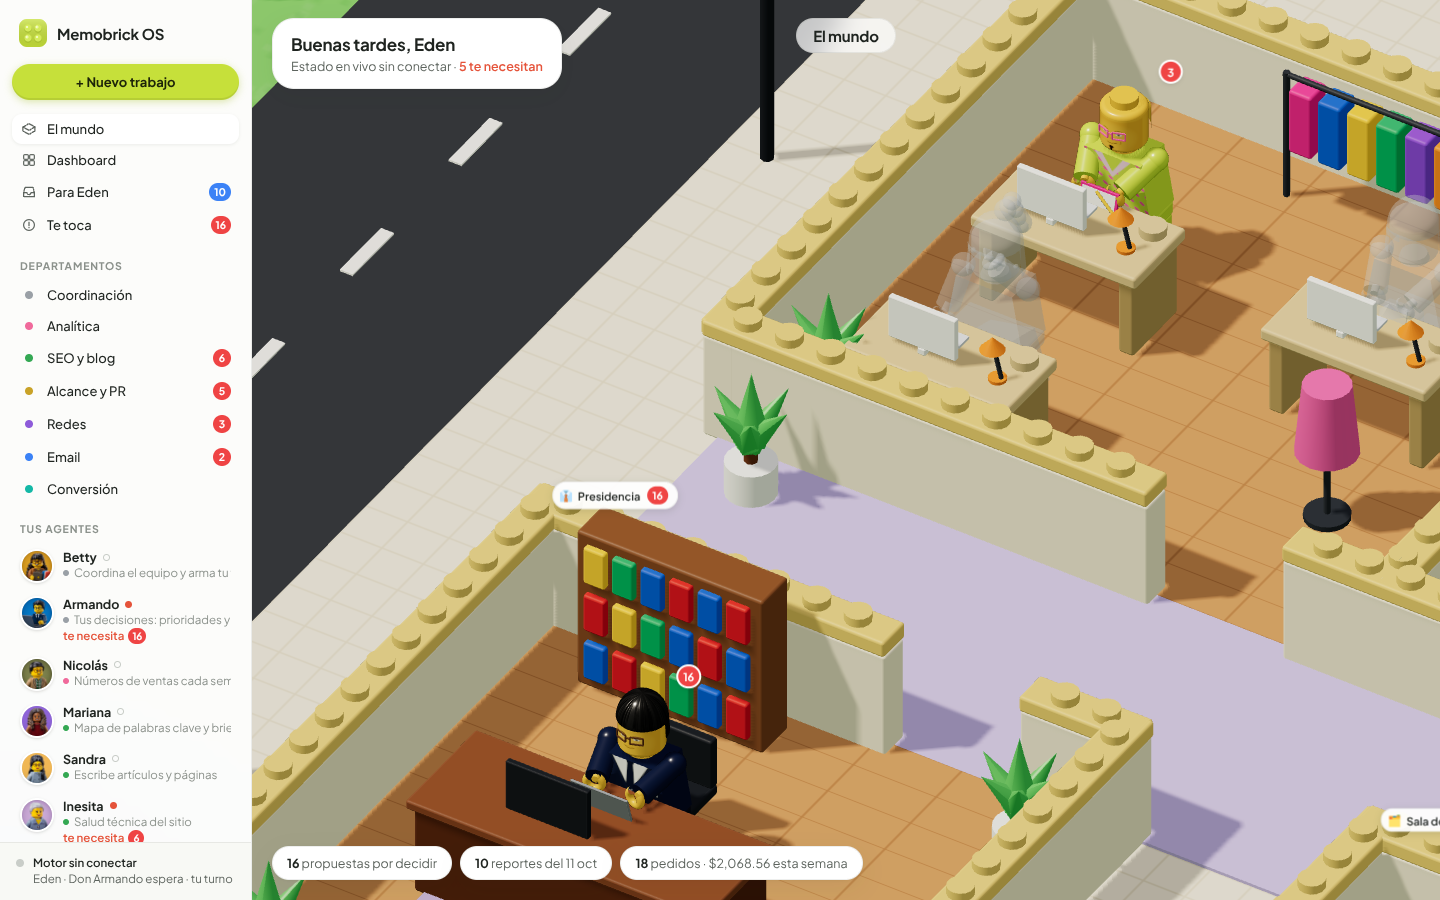
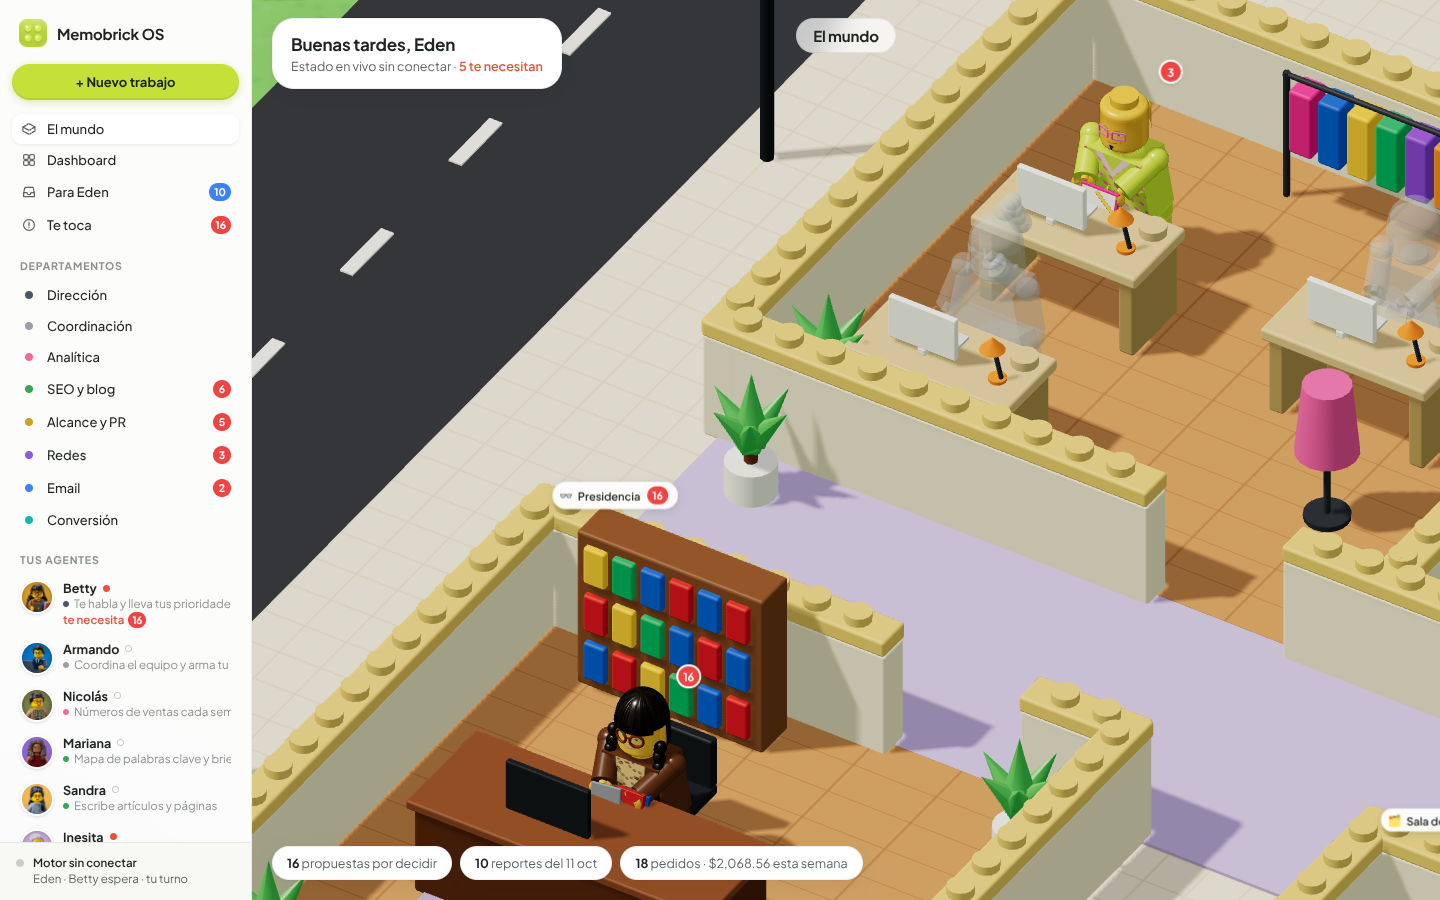
Memobrick OS: Betty is the desk Eden talks to, Armando coordinates
Swap the two roles in agents.json, add a Dirección department for Betty,
seat Betty in Presidencia and Armando in his own office, and read the
approval desk by agent name instead of by character.

Claude-Session: https://claude.ai/code/session_01AMLDVzMa2aGkQPfaF6oXBQ

diff --git a/os/server/state.ts b/os/server/state.ts
@@ -2,7 +2,7 @@
 // comes from here; nothing is invented. Missing files give empty values.
 import { existsSync, readdirSync, readFileSync } from 'node:fs';
 import { join } from 'node:path';
-import { isPending, parseQueue, parseReportName, parseScorecardLatestWeek, parseStatus } from './parse';
+import { APPROVALS_DESK, isPending, parseQueue, parseReportName, parseScorecardLatestWeek, parseStatus } from './parse';
 import type { AgentStatus } from './parse';
 
 type AgentConfig = {
@@ -36,7 +36,6 @@ export type DashboardState = {
 };
 
 const read = (p: string) => (existsSync(p) ? readFileSync(p, 'utf8') : null);
-const APPROVALS_DESK = 'aprobaciones';
 
 export function buildState(osDir: string, repoDir: string): DashboardState {
   const cfg = JSON.parse(readFileSync(join(osDir, 'agents.json'), 'utf8'));
@@ -63,7 +62,7 @@ export function buildState(osDir: string, repoDir: string): DashboardState {
     const statusJson = read(join(statusDir, `${a.name}.json`));
     return {
       ...a,
-      // The approvals desk (Armando) holds every pending item.
+      // The approval desk holds every pending item.
       pending: a.name === APPROVALS_DESK ? pendingItems.length : pendingBy.get(a.name) ?? 0,
       live: statusJson ? parseStatus(statusJson) : null,
       lastReport: lastReportBy.get(a.name) ?? null,

diff --git a/os/src/ui/WorldView.tsx b/os/src/ui/WorldView.tsx
@@ -53,10 +53,7 @@ export function WorldView({ state, onPick }: Props) {
   }, [ready, figures]);
 
   const byCharacter = new Map(state.agents.map((a) => [a.character, a]));
-  const roomPending = (cast: string[], id: string) =>
-    id === 'presidencia'
-      ? byCharacter.get('armando')?.pending ?? 0
-      : cast.reduce((n, c) => n + (c === 'armando' ? 0 : byCharacter.get(c)?.pending ?? 0), 0);
+  const roomPending = (cast: string[]) => cast.reduce((n, c) => n + (byCharacter.get(c)?.pending ?? 0), 0);
 
   return (
     <div className="world-view">
@@ -65,7 +62,7 @@ export function WorldView({ state, onPick }: Props) {
       <div className="world-overlay" ref={overlay} aria-hidden={!ready}>
         {ready &&
           ROOMS.map((r) => {
-            const n = roomPending(r.cast, r.id);
+            const n = roomPending(r.cast);
             return (
               <div key={r.id} className="room-label" data-anchor={`room:${r.id}`} data-align="left">
                 <span className="room-icon">{r.icon}</span>

diff --git a/os/src/world/layout.ts b/os/src/world/layout.ts
@@ -116,11 +116,11 @@ export const ROOMS: Room[] = [
   {
     id: 'presidencia',
     label: 'Presidencia',
-    icon: '👔',
+    icon: '👓',
     x: 0, z: 25, w: 14, d: 15,
     floor: 'wood',
     doors: [{ side: 'n', at: 8, width: 4 }, { side: 'e', at: 11, width: 3 }],
-    cast: ['armando'],
+    cast: ['betty'],
     seats: [{ x: 6, z: 6 }],
     furniture: [
       { kind: 'bookshelf', x: 4, z: 1.2 },
@@ -131,13 +131,13 @@ export const ROOMS: Room[] = [
     ],
   },
   {
-    id: 'betty',
-    label: 'El cuarto de Betty',
-    icon: '📒',
+    id: 'armando',
+    label: 'Oficina de Armando Mendoza',
+    icon: '👔',
     x: 14, z: 35, w: 6, d: 9,
     floor: 'tile',
     doors: [{ side: 'w', at: 0, width: 3 }],
-    cast: ['betty'],
+    cast: ['armando'],
     seats: [{ x: 3, z: 4.5 }],
     furniture: [{ kind: 'cabinet', x: 4.6, z: 7.5 }],
   },

diff --git a/os/src/ui/Mundo.tsx b/os/src/ui/Mundo.tsx
@@ -1,3 +1,4 @@
+import { APPROVALS_DESK } from '../../server/parse';
 import type { DashboardState } from '../../server/state';
 import { WorldView } from './WorldView';
 
@@ -10,7 +11,7 @@ const plural = (n: number, one: string, many: string) => `${n} ${n === 1 ? one :
 
 export function Mundo({ state, onPick }: { state: DashboardState; onPick: (agent: string) => void }) {
   const working = state.agents.filter((a) => a.live?.state === 'working').length;
-  const needing = state.agents.filter((a) => a.character !== 'armando' && (a.pending > 0 || a.live?.state === 'needs_me')).length;
+  const needing = state.agents.filter((a) => a.name !== APPROVALS_DESK && (a.pending > 0 || a.live?.state === 'needs_me')).length;
 
   const workingText = state.liveConnected ? plural(working, 'agente trabajando', 'agentes trabajando') : 'Estado en vivo sin conectar';
 

diff --git a/os/src/ui/Sidebar.tsx b/os/src/ui/Sidebar.tsx
@@ -1,3 +1,4 @@
+import { APPROVALS_DESK } from '../../server/parse';
 import type { AgentView, DashboardState } from '../../server/state';
 import { Logo } from './Logo';
 
@@ -118,8 +119,8 @@ function liveTitle(a: AgentView) {
 }
 
 function EngineFooter({ state }: { state: DashboardState }) {
-  const armando = state.agents.find((a) => a.character === 'armando');
-  const turn = state.approvals.pending > 0 ? `Don ${armando?.displayName ?? 'Armando'} espera · tu turno` : `Don ${armando?.displayName ?? 'Armando'} al día`;
+  const desk = state.agents.find((a) => a.name === APPROVALS_DESK)?.displayName ?? 'Tu fila';
+  const turn = state.approvals.pending > 0 ? `${desk} espera · tu turno` : `${desk} al día`;
   return (
     <footer className="engine">
       <span className={`engine-dot ${state.liveConnected ? 'on' : ''}`} />

diff --git a/os/server/parse.ts b/os/server/parse.ts
@@ -1,6 +1,9 @@
 // Pure parsers for the repo files the dashboard reads. No file access here, so
 // they are easy to test; server/state.ts does the reading.
 
+/** agents.json name of the approval desk: the character who holds every pending item. */
+export const APPROVALS_DESK = 'aprobaciones';
+
 export type ApprovalItem = {
   id: string;
   agent: string;

diff --git a/os/HANDOFF.md b/os/HANDOFF.md
@@ -5,7 +5,7 @@ Read this first in a new session.
 ## Decisions so far
 - App: Memobrick OS, a local dashboard where the marketing agents are a LEGO-style office ("El mundo"). UI in Spanish. Owner's name for greetings: Eden.
 - Banner and company everywhere: **Memobrick** (all characters work for Memobrick).
-- Cast and roles: `agents.json`. Betty = marketing-coordinator (the one the owner chats with). Armando = the approvals desk (`marketing/approvals/queue.md`), not an AI agent. Mariana = seo-strategist. Machine tags are blank until the owner sets them.
+- Cast and roles: `agents.json`. Betty = the approval desk the owner talks to (`aprobaciones`, department Dirección, sits in Presidencia, holds every pending item in `marketing/approvals/queue.md`). Armando = the marketing-coordinator agent (Oficina de Armando Mendoza). Swapped at the owner's request after Stage 3. Mariana = seo-strategist. Machine tags are blank until the owner sets them.
 - Portrait style: **photographic LEGO macro shots** made with an image model, matching `reference/*.jpg`. The procedural Three.js builder in `src/minifig/` is NOT the portrait style; keep it only for tiny figures in the 3D office if useful.
 - Image generation (current route): the owner generates images for free in the Gemini web app using `prompts/avatars.md` plus the reference images, then pastes them into the chat; save them as `avatars/<id>.png` (1024x1024) and `sprites/raw/<id>.png`. The API route below is kept as a fallback.
 - Image generation (API fallback): Gemini API. The key is a **network secret** (allowed website `generativelanguage.googleapis.com`, header `x-goog-api-key`, no prefix); the proxy adds it, so the session never sees it and the script sends no key. `GEMINI_API_KEY` is only a fallback for local runs. Model override: `GEMINI_IMAGE_MODEL` (default `gemini-2.5-flash-image`). Quick check: `curl -s https://generativelanguage.googleapis.com/v1beta/models | head` should list models, not an auth error.
@@ -30,7 +30,7 @@ All 22 portraits in `avatars/`, figures in `sprites/`. Review images: `python3 s
 
 ## Stage 2: sidebar and UI shell (built, waiting for approval)
 - Run: `cd os && npm install && npm run os`, then open the printed address.
-- `server/state.ts` builds everything the app shows from repo files on each request to `/api/state`: `agents.json`, `marketing/approvals/queue.md` (pending items = Te toca and each agent's "te necesita"; Armando holds all of them), `marketing/reports/` (latest date = Para Eden), `marketing/shared/scorecard.md` (latest weekly row), and `marketing/status/<agent>.json` (live state, not written by agents yet).
+- `server/state.ts` builds everything the app shows from repo files on each request to `/api/state`: `agents.json`, `marketing/approvals/queue.md` (pending items = Te toca and each agent's "te necesita"; the approval desk, Betty, holds all of them), `marketing/reports/` (latest date = Para Eden), `marketing/shared/scorecard.md` (latest weekly row), and `marketing/status/<agent>.json` (live state, not written by agents yet).
 - Parsers in `server/parse.ts`, tested in `server/parse.test.ts`.
 - Screens other than El mundo are placeholders until stage 4. The office scene is stage 3.
 
